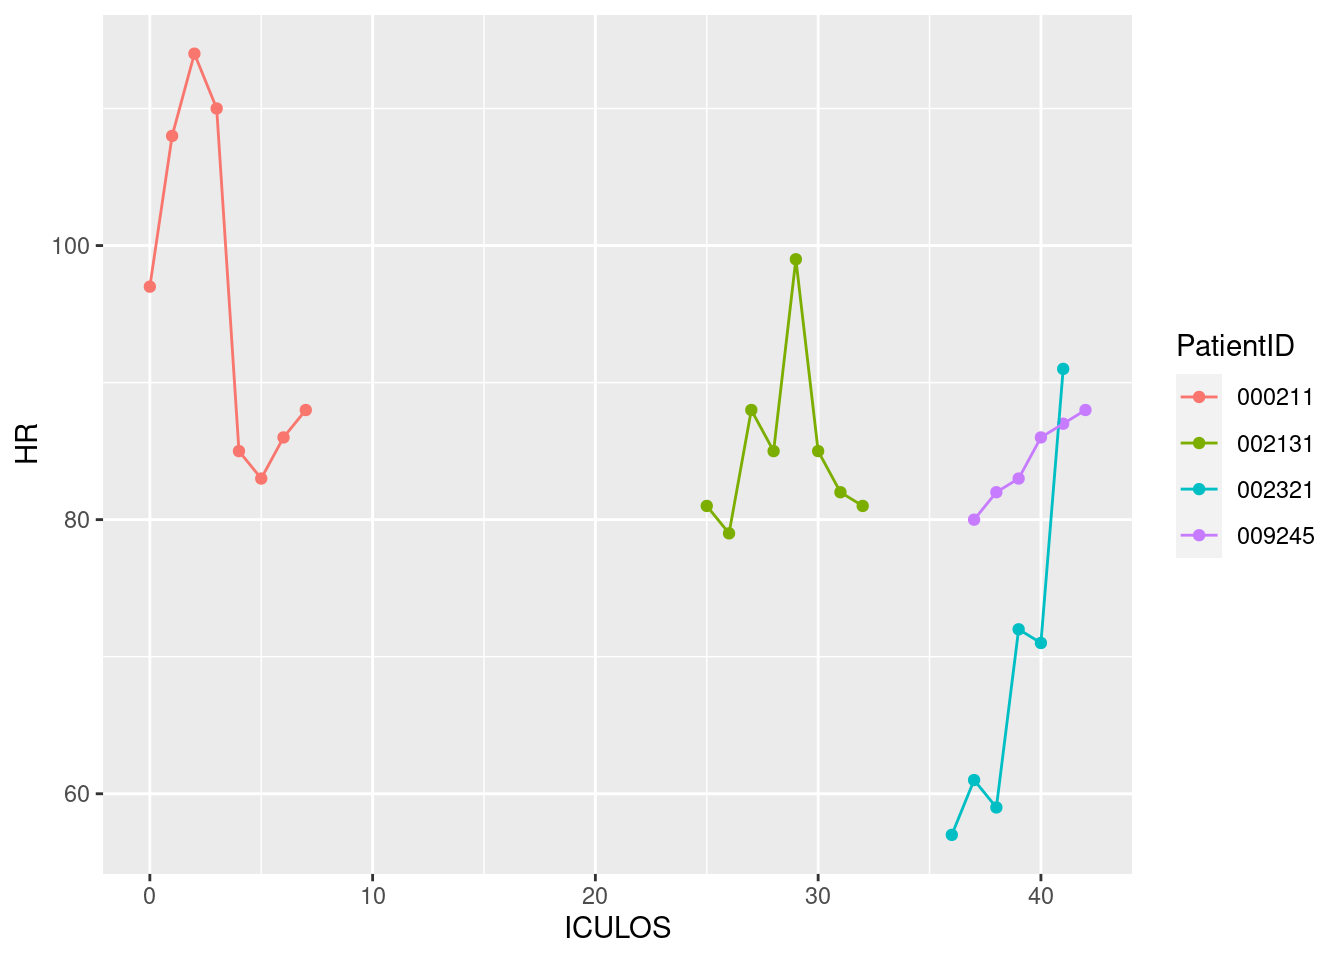
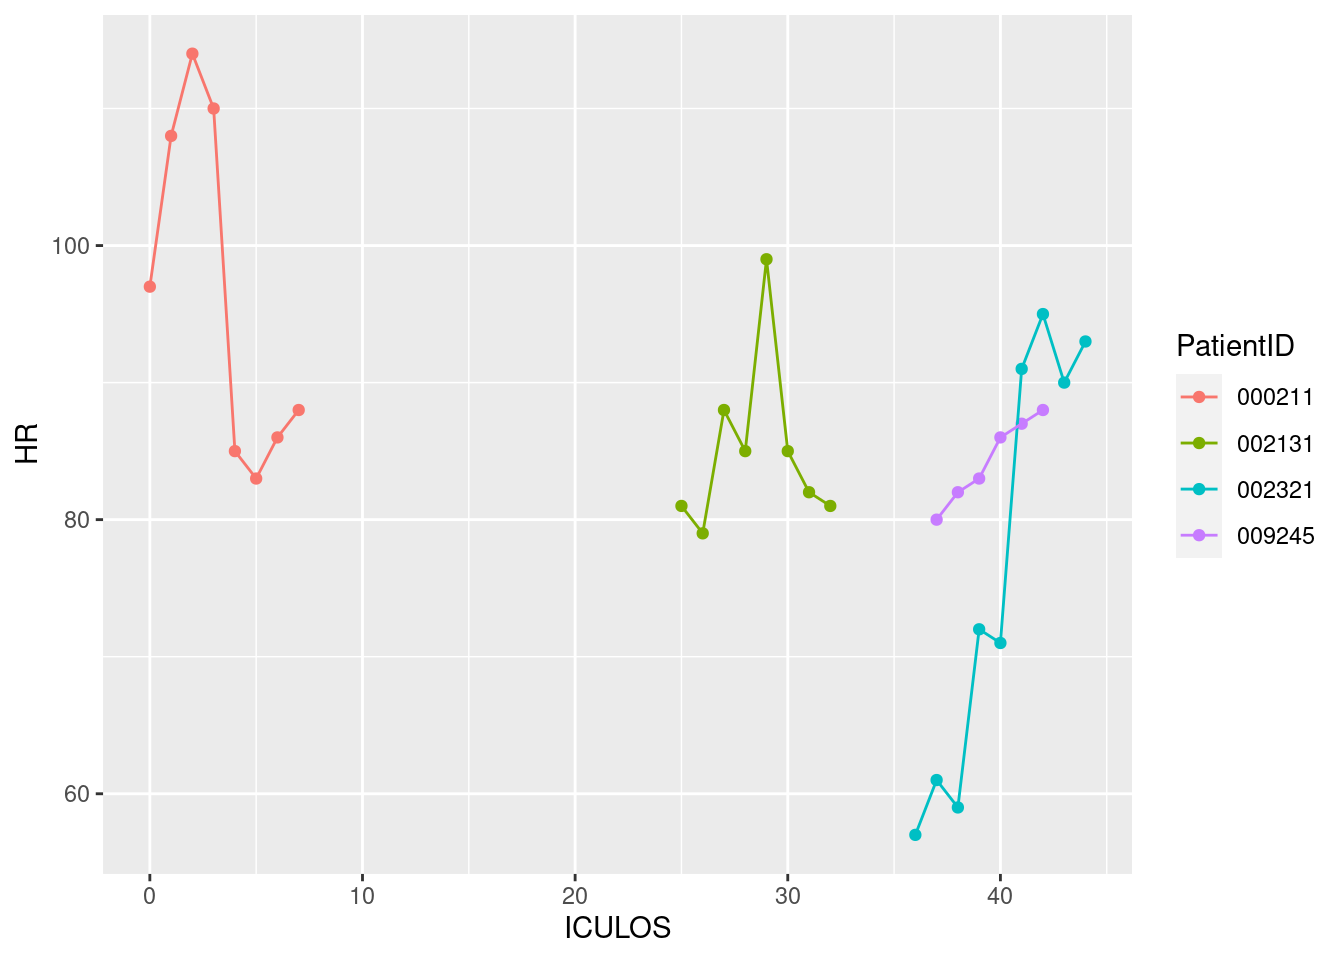
Updated report

diff --git a/a7qmd.html b/a7qmd.html
@@ -80,7 +80,7 @@ ul.task-list li input[type="checkbox"] {
 <h2 class="anchored" data-anchor-id="current-date-and-time">Current date and time</h2>
 <div class="cell">
 <div class="cell-output cell-output-stdout">
-<pre><code>[1] "2023-04-11 14:15:36 UTC"</code></pre>
+<pre><code>[1] "2023-04-11 15:17:41 UTC"</code></pre>
 </div>
 </div>
 </section>
@@ -112,9 +112,9 @@ ul.task-list li input[type="checkbox"] {
 </tr>
 <tr class="odd">
 <td style="text-align: left;">002321</td>
-<td style="text-align: right;">91</td>
+<td style="text-align: right;">93</td>
 <td style="text-align: right;">NA</td>
-<td style="text-align: right;">14</td>
+<td style="text-align: right;">19</td>
 </tr>
 <tr class="even">
 <td style="text-align: left;">009245</td>
@@ -193,9 +193,9 @@ ul.task-list li input[type="checkbox"] {
 </tr>
 <tr class="odd">
 <td style="text-align: left;">000878</td>
+<td style="text-align: right;">-1</td>
+<td style="text-align: right;">0.00</td>
 <td style="text-align: right;">0</td>
-<td style="text-align: right;">-0.10</td>
-<td style="text-align: right;">-5</td>
 </tr>
 <tr class="even">
 <td style="text-align: left;">000939</td>
@@ -217,9 +217,9 @@ ul.task-list li input[type="checkbox"] {
 </tr>
 <tr class="odd">
 <td style="text-align: left;">001283</td>
-<td style="text-align: right;">3</td>
-<td style="text-align: right;">-0.10</td>
-<td style="text-align: right;">4</td>
+<td style="text-align: right;">-5</td>
+<td style="text-align: right;">-0.30</td>
+<td style="text-align: right;">0</td>
 </tr>
 <tr class="even">
 <td style="text-align: left;">001708</td>
@@ -247,15 +247,15 @@ ul.task-list li input[type="checkbox"] {
 </tr>
 <tr class="even">
 <td style="text-align: left;">002248</td>
-<td style="text-align: right;">-3</td>
+<td style="text-align: right;">NA</td>
 <td style="text-align: right;">NA</td>
 <td style="text-align: right;">NA</td>
 </tr>
 <tr class="odd">
 <td style="text-align: left;">002321</td>
-<td style="text-align: right;">20</td>
+<td style="text-align: right;">3</td>
 <td style="text-align: right;">NA</td>
-<td style="text-align: right;">1</td>
+<td style="text-align: right;">3</td>
 </tr>
 <tr class="even">
 <td style="text-align: left;">002434</td>
@@ -265,15 +265,15 @@ ul.task-list li input[type="checkbox"] {
 </tr>
 <tr class="odd">
 <td style="text-align: left;">002572</td>
-<td style="text-align: right;">1</td>
+<td style="text-align: right;">-10</td>
 <td style="text-align: right;">NA</td>
-<td style="text-align: right;">-3</td>
+<td style="text-align: right;">3</td>
 </tr>
 <tr class="even">
 <td style="text-align: left;">002738</td>
-<td style="text-align: right;">2</td>
+<td style="text-align: right;">24</td>
 <td style="text-align: right;">NA</td>
-<td style="text-align: right;">9</td>
+<td style="text-align: right;">4</td>
 </tr>
 <tr class="odd">
 <td style="text-align: left;">003083</td>
@@ -283,9 +283,9 @@ ul.task-list li input[type="checkbox"] {
 </tr>
 <tr class="even">
 <td style="text-align: left;">003684</td>
-<td style="text-align: right;">-13</td>
+<td style="text-align: right;">0</td>
 <td style="text-align: right;">NA</td>
-<td style="text-align: right;">-4</td>
+<td style="text-align: right;">0</td>
 </tr>
 <tr class="odd">
 <td style="text-align: left;">003690</td>
@@ -301,13 +301,13 @@ ul.task-list li input[type="checkbox"] {
 </tr>
 <tr class="odd">
 <td style="text-align: left;">003740</td>
-<td style="text-align: right;">0</td>
+<td style="text-align: right;">-2</td>
 <td style="text-align: right;">NA</td>
-<td style="text-align: right;">1</td>
+<td style="text-align: right;">0</td>
 </tr>
 <tr class="even">
 <td style="text-align: left;">003777</td>
-<td style="text-align: right;">0</td>
+<td style="text-align: right;">2</td>
 <td style="text-align: right;">NA</td>
 <td style="text-align: right;">0</td>
 </tr>
@@ -319,9 +319,9 @@ ul.task-list li input[type="checkbox"] {
 </tr>
 <tr class="even">
 <td style="text-align: left;">004389</td>
-<td style="text-align: right;">8</td>
+<td style="text-align: right;">-2</td>
 <td style="text-align: right;">NA</td>
-<td style="text-align: right;">3</td>
+<td style="text-align: right;">20</td>
 </tr>
 <tr class="odd">
 <td style="text-align: left;">004476</td>
@@ -349,9 +349,9 @@ ul.task-list li input[type="checkbox"] {
 </tr>
 <tr class="odd">
 <td style="text-align: left;">005546</td>
-<td style="text-align: right;">7</td>
+<td style="text-align: right;">0</td>
 <td style="text-align: right;">NA</td>
-<td style="text-align: right;">1</td>
+<td style="text-align: right;">-5</td>
 </tr>
 <tr class="even">
 <td style="text-align: left;">005785</td>
@@ -361,15 +361,15 @@ ul.task-list li input[type="checkbox"] {
 </tr>
 <tr class="odd">
 <td style="text-align: left;">006938</td>
-<td style="text-align: right;">-8</td>
+<td style="text-align: right;">7</td>
 <td style="text-align: right;">0.00</td>
-<td style="text-align: right;">-3</td>
+<td style="text-align: right;">0</td>
 </tr>
 <tr class="even">
 <td style="text-align: left;">007154</td>
-<td style="text-align: right;">0</td>
 <td style="text-align: right;">NA</td>
-<td style="text-align: right;">2</td>
+<td style="text-align: right;">NA</td>
+<td style="text-align: right;">NA</td>
 </tr>
 <tr class="odd">
 <td style="text-align: left;">007365</td>
@@ -379,9 +379,9 @@ ul.task-list li input[type="checkbox"] {
 </tr>
 <tr class="even">
 <td style="text-align: left;">008070</td>
-<td style="text-align: right;">9</td>
+<td style="text-align: right;">-10</td>
 <td style="text-align: right;">NA</td>
-<td style="text-align: right;">4</td>
+<td style="text-align: right;">1</td>
 </tr>
 <tr class="odd">
 <td style="text-align: left;">008496</td>
@@ -409,21 +409,21 @@ ul.task-list li input[type="checkbox"] {
 </tr>
 <tr class="odd">
 <td style="text-align: left;">008907</td>
-<td style="text-align: right;">2</td>
+<td style="text-align: right;">-13</td>
 <td style="text-align: right;">NA</td>
 <td style="text-align: right;">1</td>
 </tr>
 <tr class="even">
 <td style="text-align: left;">008916</td>
+<td style="text-align: right;">15</td>
 <td style="text-align: right;">NA</td>
-<td style="text-align: right;">NA</td>
-<td style="text-align: right;">NA</td>
+<td style="text-align: right;">5</td>
 </tr>
 <tr class="odd">
 <td style="text-align: left;">009179</td>
-<td style="text-align: right;">-12</td>
+<td style="text-align: right;">-1</td>
 <td style="text-align: right;">NA</td>
-<td style="text-align: right;">4</td>
+<td style="text-align: right;">0</td>
 </tr>
 <tr class="even">
 <td style="text-align: left;">009185</td>
